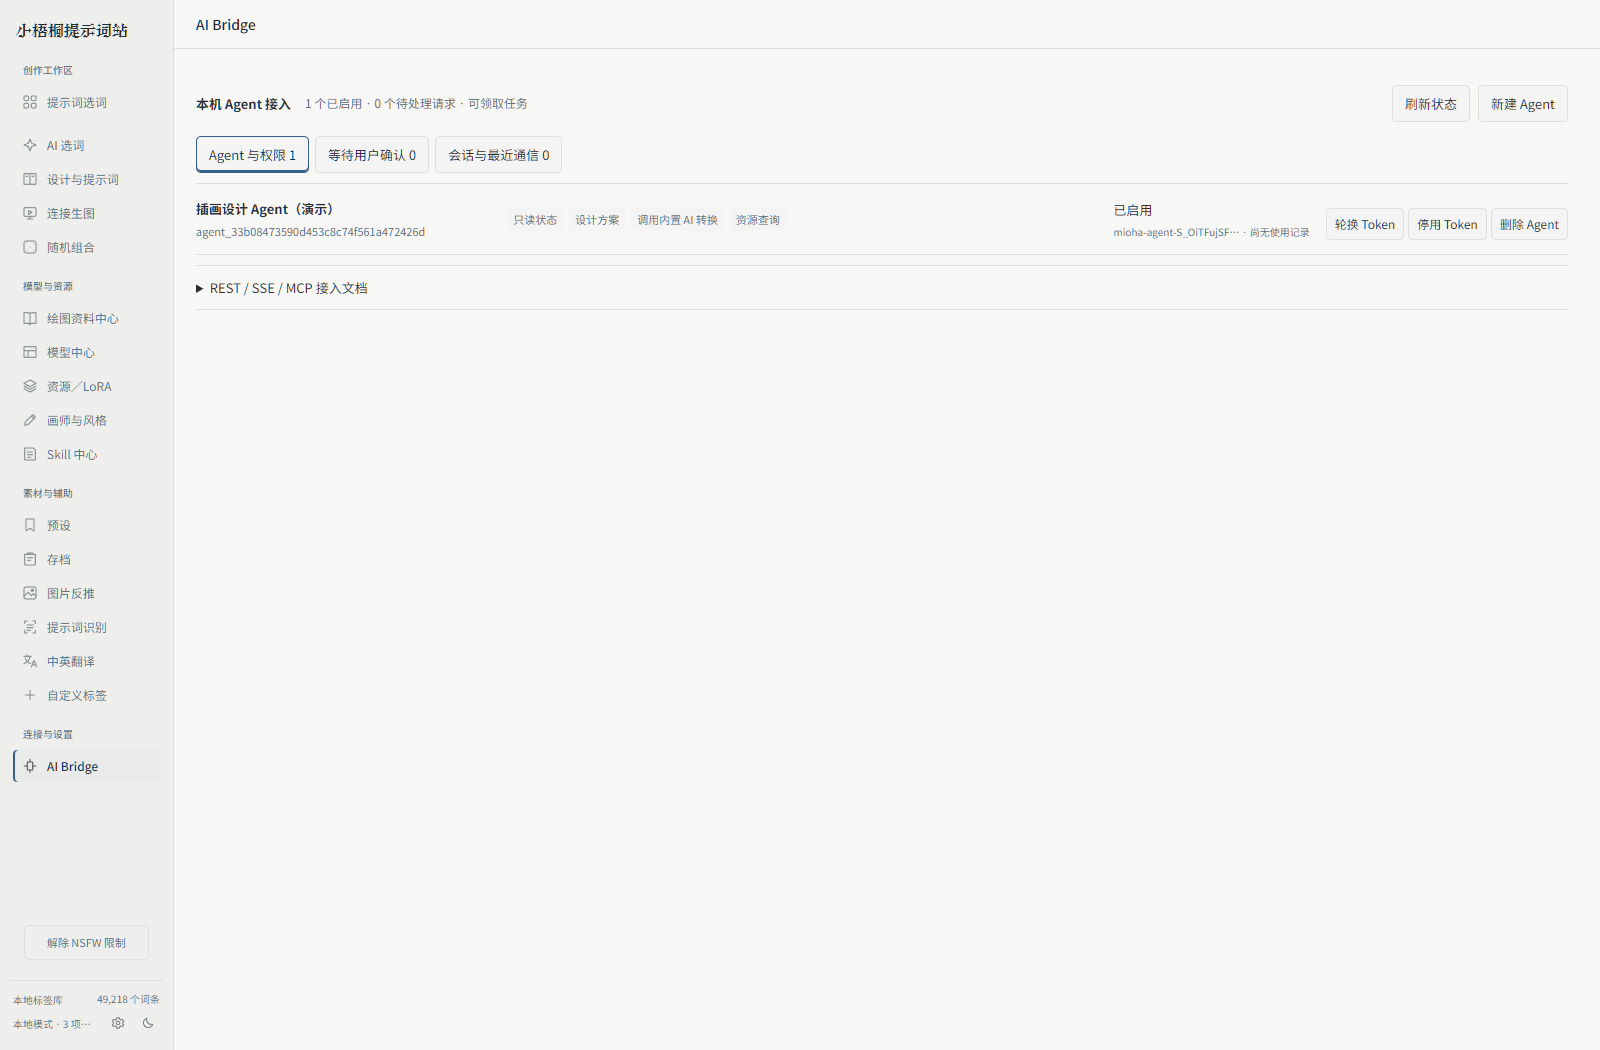
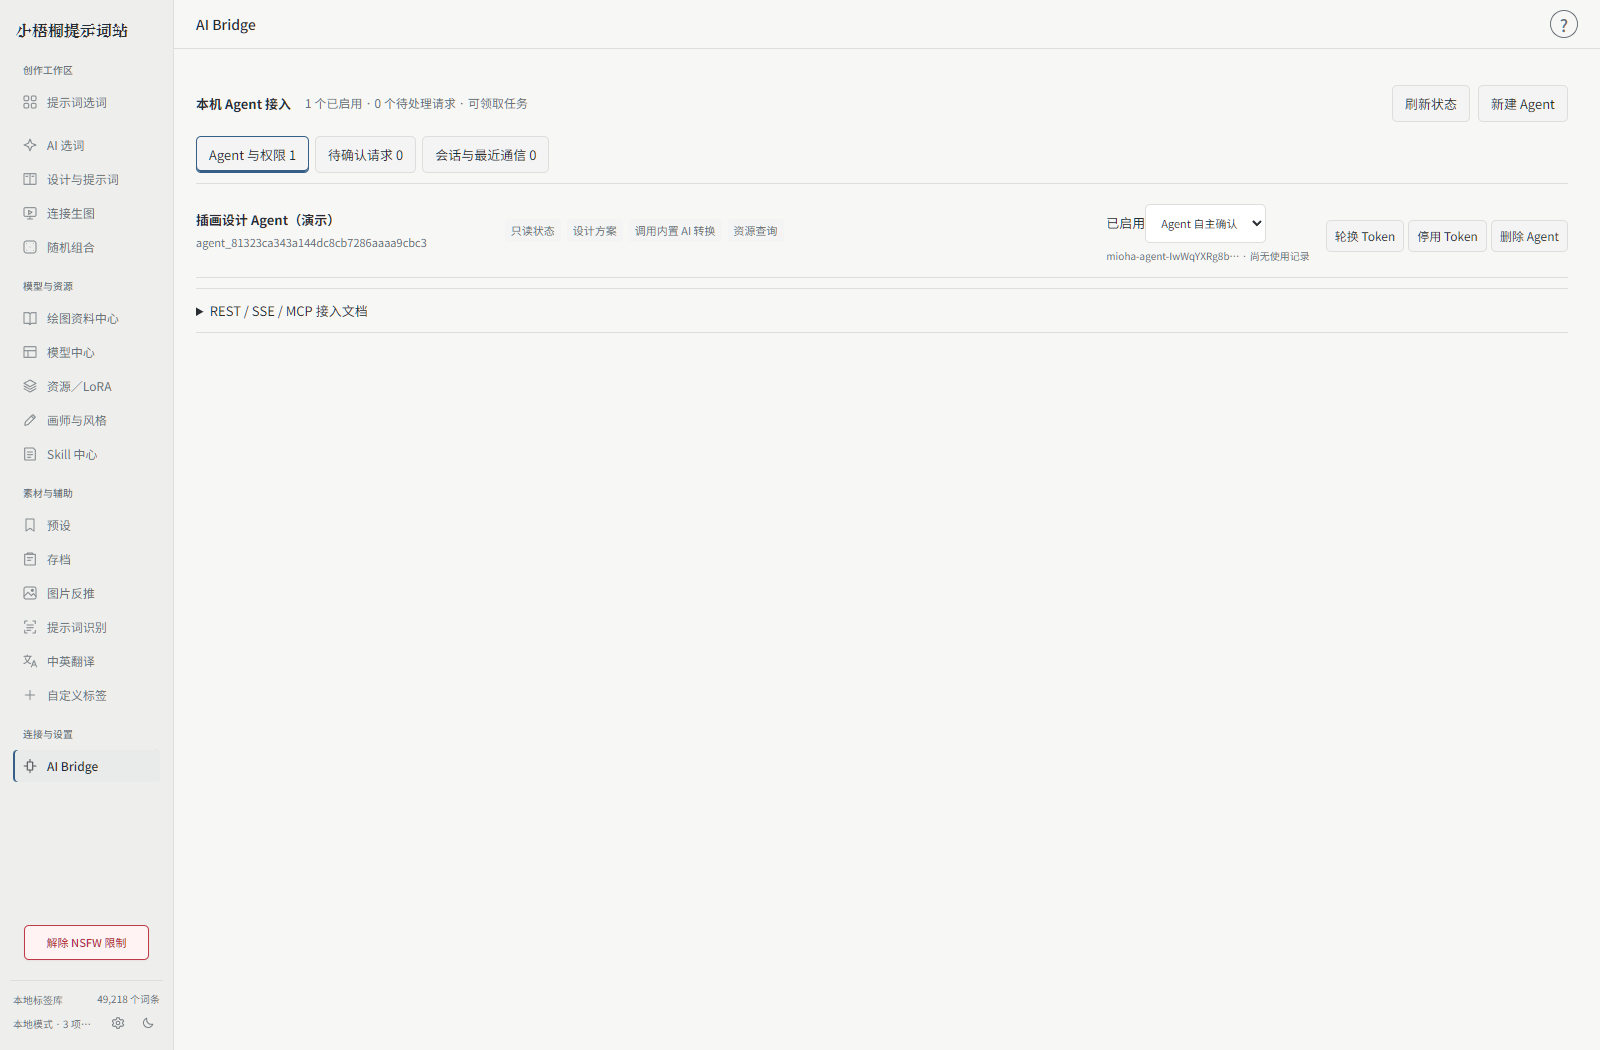
Document 0.2.3 Agent control, resource setup, workflows, progress and page help

diff --git a/docs/AGENT.md b/docs/AGENT.md
@@ -6,7 +6,7 @@
 
 外部 Agent 负责创意设计，软件内置 AI 负责按当前绘图模型和 Skill 转换表达。原始方案、版本和转换结果分开保存。外部 Agent 不需要维护所有绘图模型的专属语法，也不应另外建立重复推理服务。
 
-流程：查询能力 → 创建会话 → 提交原始设计 → 请求转换 → 查询／订阅任务 → 回答追问或提出反馈 → 获取结果 → 申请应用到编辑器 → 用户确认 → 按权限申请生图。
+流程：查询能力 → 创建会话 → 提交原始设计 → 请求转换 → 查询／订阅任务 → 回答追问或提出反馈 → 获取结果 → 配置实际资源 → 申请应用／生图 → 按权限自主确认或用户确认 → 获取执行回执。
 
 软件界面需保持运行，才能领取转换任务、执行编辑器应用和返回回执。HTTP 在线与转换可领取是两个状态。
 
@@ -55,10 +55,10 @@
 | convert | 请求内置 AI 转换与反馈 |
 | resources | 查询资源与画师信息 |
 | skills / models | 请求管理对应资源 |
-| generate | 请求生图 |
+| generate | 配置底模、LoRA、参数及工作流，申请生图 |
 | delete | 请求删除资源 |
 
-资源删除、覆盖提示词和最终生图按业务要求由用户确认。外部 Agent 没有任意文件、系统命令或数据库直连入口，也不能解除全局内容模式。
+资源删除、覆盖提示词和最终生图仍经过业务确认。默认允许 Agent 确认自己已授权的请求；用户可在身份列表切换为始终由用户确认。确认生图可能使用自己的付费服务，请按需授予 generate 权限。外部 Agent 没有任意文件、系统命令或数据库直连入口，也不能解除全局内容模式。
 
 ## 任务状态
 
@@ -67,7 +67,7 @@
 | queued | 已保存并排队 |
 | running | 已领取／执行；应用任务还可能在等编辑器回执 |
 | awaiting_input | 需要回答补充问题，可沿用原任务恢复 |
-| awaiting_confirmation | 等待用户审阅 |
+| awaiting_confirmation | 待确认；按权限调用 confirm_job，或等待用户审阅 |
 | success | 当前操作已完成；应用提示词以编辑器回执为准 |
 | error / cancelled | 失败或已取消，查看错误与已有结果后再决定是否重试 |
 
@@ -82,14 +82,57 @@
 转换任务优先于尚未执行的生图，但不会抢占已经运行的任务。会话上下文与任务按 Agent 隔离。
 
 
+## 生图资源、LoRA 与工作流控制
+
+先用 `list_resources` 读取稳定资源 ID，`list_workflows` 读取工作流 ID；可用 `get_generation_settings` 查询已应用配置。读取完整工作流需要 resources 权限，改变生图配置需要 generate 权限。
+
+调用 `configure_generation`，其 value 示例如下（替换为真实 ID）：
+
+```json
+{
+  "modelId": "model_anima",
+  "provider": "comfy",
+  "checkpointResourceId": "CHECKPOINT_RESOURCE_ID",
+  "workflowId": "WORKFLOW_ID",
+  "loras": [
+    {"resourceId": "LORA_A_ID", "weight": 0.85, "clipWeight": 0.6, "triggerEnabled": true},
+    {"resourceId": "LORA_B_ID", "weight": 1.1, "triggerEnabled": false}
+  ],
+  "parameters": {"width": 832, "height": 1216, "steps": 24},
+  "requestId": "UNIQUE_CONFIGURATION_REQUEST"
+}
+```
+
+返回配置任务，success 才表示界面已经应用。配置本身不生图，`loras: []` 清空列表。生成请求使用本 Agent 的配置快照，避免其他 Agent 或界面改变当前设置后串用资源。
+
+## 自主确认与页面帮助
+
+用 `confirm_job` 确认自己提交的待确认请求。不能跨 Agent、绕过 Token 权限或资源引用保护；被设为用户确认模式时自确认返回403。全局内容模式不对外部 Agent 开放。
+
+先读取 capabilities 中的 `selfConfirmationAllowed`、`confirmationMode` 和新能力。1.2 保留旧的 `*RequiresUserConfirmation` 兼容字段，新客户端不能再把它理解为只允许人工点击。
+
+`list_pages`／`get_page_help` 提供界面问号中同一份功能说明。分类管理也有独立资源分类工具，删除分类保留磁盘权重。更新软件后请重连外部 MCP 进程，旧进程不会自动加载新增工具。
+
+
 ## 工具与接口索引
 
-### MCP 工具（27项）
+### MCP 工具（38项）
 
 | 工具 | 用途 |
 | --- | --- |
 | `workspace_status` | 查询当前绘图模型、Skill、界面心跳与队列状态。converterReady 只在工作进程在线且可领取转换时为真；队列阻塞不等于任务失败。 |
 | `workspace_capabilities` | 查询应用版本、协议能力、权限、完整 REST 路由、数据库诊断和队列状态。先调用此工具了解当前软件支持范围。 |
+| `list_pages` | 列出全部软件页面及作用、操作步骤与输出，先了解软件再操作。 |
+| `get_page_help` | 读取指定页面的功能介绍。id 来自 list_pages，不依赖界面截图。 |
+| `get_generation_settings` | 读取当前或本 Agent 最近成功应用的生图配置，包含引擎、底模、LoRA 与工作流。 |
+| `configure_generation` | 配置生图但不执行绘图，需 generate 权限。value 支持 modelId、provider(neo/comfy/nai)、checkpointResourceId、workflowId、loras:[{resourceId,weight,clipWeight,triggerEnabled}]、parameters 与 requestId。先用 list_resources 查询实际 LoRA ID；返回任务 ID，success 才表示界面应用完成。loras:[] 清空所选 LoRA。 |
+| `list_workflows` | 列出 ComfyUI 文件夹中的工作流及可用状态；API 格式可直接读取，普通 UI 格式需连接 ComfyUI 获取节点定义。 |
+| `get_workflow` | 读取所选工作流及 sha256，需要 resources 权限。常规 UI 格式结合已连接 ComfyUI 的节点定义转换；旁路等不确定格式要求导出 API，避免改变工作流含义。 |
+| `confirm_job` | 确认自己提交的待确认任务，包括应用、生图及管理操作。遵守原权限、会话及资源引用限制；Agent 被设为用户确认模式时返回403。确认生图可能使用已配置的付费服务。 |
+| `list_resource_categories` | 读取用户自定义资源分类和计数；分类独立于引擎归属及模型适配。需要 resources 权限。 |
+| `save_resource_category` | 请求创建或重命名分类。value={name,可选id}。需要 resources 权限，随后用 confirm_job 确认自己的任务。 |
+| `assign_resource_categories` | 请求归类。value={resourceIds:[资源ID],categoryIds:[分类ID]}；空分类列表移至未分类。确认后生效，权重文件不移动。 |
+| `delete_resource_category` | 请求删除分类关系；确认后执行，资源记录与磁盘文件保留，需要 resources 与 delete 权限。 |
 | `list_models` | 分页列出可用绘图模型定义及稳定 ID，供选择设计方案转换目标；不会加载或下载权重。 |
 | `list_skills` | 分页查询模型专属 Skill 规则与元数据，modelId 可过滤；切换模型时应选择兼容规则。 |
 | `list_resources` | 分页查询 LoRA、真实触发词及模型兼容性。默认隐藏本机绝对路径；只有明确需要诊断时才传 paths=true。 |
@@ -101,19 +144,19 @@
 | `submit_design` | 提交与绘图模型无关的完整创意设计，支持自然语言或结构化对象。sessionId 必填；id 用于更新，requestId 用于安全重试。 |
 | `convert_design` | 请求软件现有内置 AI 将指定设计版本转换为目标模型提示词，不另建推理系统。返回任务，需用 get_job 查询；requestId 可幂等重试。 |
 | `resume_job` | 回答 awaiting_input 转换任务的追问，feedback 写完整补充内容。沿用相同任务 ID 和设计版本重新排队，requestId 用于幂等重试。 |
-| `get_job` | 查询本 Agent 单条任务、错误、追问、排队位置和转换结果 ID。生图或应用提示词处于 awaiting_confirmation 时须等待用户在软件确认。 |
+| `get_job` | 查询本 Agent 单条任务、错误、追问、排队位置、生成进度和转换结果 ID。awaiting_confirmation 时按 capabilities 的 selfConfirmationAllowed 判断：可自主确认则调用 confirm_job，否则等待用户确认。 |
 | `get_design` | 读取本 Agent 设计原文和版本记录；不将转换提示词当作原始设计。 |
 | `get_prompt` | 读取本 Agent 转换后的正负提示词、目标模型、Skill 快照和审阅信息。 |
-| `apply_prompt` | 请求把转换结果应用到编辑器，会覆盖现有正负提示词并可能切换模型。仅创建待确认任务，用户批准前不会修改编辑框。 |
-| `request_generation` | 提交本会话已转换 Prompt ID 的生图请求，返回待用户批准任务。不能绕过确认，也不能直接提交任意系统命令或文件路径。 |
+| `apply_prompt` | 请求把转换结果应用到编辑器，会覆盖现有正负提示词并可能切换模型。返回待确认任务，按权限调用 confirm_job 自主确认，或由用户确认；确认成功后执行并回执。 |
+| `request_generation` | 提交本会话已转换 Prompt ID 的生图请求，返回待确认任务。先用 configure_generation 选择实际底模、LoRA 和权重；按权限用 confirm_job 确认自己的任务，或等待用户确认。不能提交任意系统命令或文件路径。 |
 | `cancel_job` | 取消本 Agent 尚未运行、待确认或待补充的任务；正在执行的上游任务不保证能中断。 |
 | `generation_history` | 分页查看本 Agent 的生成结果与实际请求记录，可按会话恢复历史。 |
-| `save_model` | 请求创建或编辑模型定义，value 为现有业务模型对象。需要 models 权限并由用户审阅批准后执行。 |
-| `save_skill` | 请求创建或编辑模型 Skill，value 含 modelId、名称与规则内容。需要 skills 权限，用户确认后才保存。 |
-| `save_artist` | 请求创建或编辑画师资源，value 含 modelId 与画师串。需要 resources 权限，用户确认后保存。 |
-| `delete_model` | 提交模型删除请求，需 models/delete 权限；用户批准前不删除任何记录或文件。 |
+| `save_model` | 请求创建或编辑模型定义，value 为现有业务模型对象。需要 models 权限，确认后执行；允许自主确认的 Agent 可用 confirm_job 确认自己的任务。 |
+| `save_skill` | 请求创建或编辑模型 Skill，value 含 modelId、名称与规则内容。需要 skills 权限，确认后保存，可由已授权 Agent 自行确认。 |
+| `save_artist` | 请求创建或编辑画师资源，value 含 modelId 与画师串。需要 resources 权限，确认后保存。 |
+| `delete_model` | 提交模型删除请求，需 models/delete 权限；确认前不删除记录或文件；已授权 Agent 可确认自己的请求。 |
 | `delete_skill` | 提交 Skill 删除请求，需 skills/delete 权限；遵守引用和内置资源保护。 |
-| `delete_artist` | 提交画师删除请求，需 resources/delete 权限，仍须用户确认。 |
+| `delete_artist` | 提交画师删除请求，需 resources/delete 权限，仍须确认，可由已授权 Agent 自行确认。 |
 | `delete_resource` | 提交资源记录删除请求，需 resources/delete 权限，不提供任意文件删除入口。 |
 
 ### REST 路由
@@ -122,6 +165,16 @@
 | --- | --- | --- |
 | GET | `/capabilities` | 能力、版本、就绪与队列状态 |
 | GET | `/state` | 当前模型、Skill 与队列状态 |
+| GET | `/pages` | 页面列表与功能介绍 |
+| GET | `/pages/{id}/help` | 指定页面的可读取功能帮助 |
+| GET | `/generation-settings` | 查询生图配置与实际资源选择 |
+| POST | `/generation-settings` | 配置底模、LoRA／权重与工作流，需 generate 权限 |
+| GET | `/workflows` | 列出个人 ComfyUI 工作流 |
+| GET | `/workflows/{id}` | 读取工作流图与校验值 |
+| GET | `/resource-categories` | 自定义资源分类 |
+| POST | `/resource-categories` | 创建／重命名分类，需确认 |
+| POST | `/resource-categories/assign` | 按资源 ID 归类，需确认 |
+| DELETE | `/resource-categories/{id}` | 删除分类关系并保留资源，需确认 |
 | GET | `/models` | 绘图模型列表 |
 | GET | `/skills?modelId=` | 模型 Skill 列表 |
 | GET | `/resources?paths=0` | 资源；默认隐藏绝对路径 |
@@ -137,10 +190,11 @@
 | GET | `/jobs/{id}` | 单个任务 |
 | POST | `/jobs/{id}/resume` | 回答追问并沿用原任务继续转换 |
 | POST | `/jobs/{id}/cancel` | 取消待执行／待补充任务 |
+| POST | `/jobs/{id}/confirm` | 确认本 Agent 的已授权任务；用户确认模式下不允许自确认 |
 | GET | `/prompts/{id}` | 转换结果 |
-| POST | `/prompts/{id}/apply` | 请求覆盖编辑器，须用户确认 |
-| POST | `/generations` | 请求生图，须用户确认 |
+| POST | `/prompts/{id}/apply` | 请求覆盖编辑器，按权限自主确认或由用户确认 |
+| POST | `/generations` | 请求生图，按权限自主确认或由用户确认 |
 | GET | `/generation-history` | 本 Agent 生成历史 |
 | GET | `/events?sessionId=&after=&timeout=90` | SSE；支持 Last-Event-ID 与 retry，按游标续传 |
-| POST | `/models ／ /skills ／ /artists` | 管理操作请求，须用户确认 |
-| DELETE | `/models/{id} ／ /skills/{id} ／ /artists/{id} ／ /resources/{id}` | 删除请求，须用户确认 |
+| POST | `/models ／ /skills ／ /artists` | 管理操作请求，按权限自主确认或由用户确认 |
+| DELETE | `/models/{id} ／ /skills/{id} ／ /artists/{id} ／ /resources/{id}` | 删除请求，检查权限及引用后确认执行 |

diff --git a/docs/MODELS_AND_GENERATION.md b/docs/MODELS_AND_GENERATION.md
@@ -14,7 +14,7 @@
 
 ## 读取本地模型与 LoRA
 
-分别设置 NeoForge 和 ComfyUI 根目录，切换相应引擎后扫描。ComfyUI 会结合自身模型目录及支持的额外路径配置读取资源。
+首次进入资源页按路径向导操作：可自动查找常见位置、选择原生文件夹或直接输入。LoRA 文件夹可独立读取，不要求伪装成整个引擎根目录；NeoForge 与 ComfyUI 分别配置。保存中暂时锁定输入，避免后一次编辑被前一次响应覆盖。ComfyUI 会结合自身模型目录及支持的额外路径配置读取资源。
 
 卡片区分所在引擎与适用模型。共享目录中的同一权重可以同时出现在两个引擎下。归属不明确时保持待确认，可在详情中人工指定；不要仅凭文件名或「SDXL」字样就认定具体模型系列。
 
@@ -23,6 +23,12 @@
 选中资源或在当前范围使用「获取信息」。程序利用可用的本地元信息、版本信息或文件哈希查询 Civitai，读取介绍、版本、预览和 trainedWords。也支持通过 Civitai／civitai.red 链接导入资料。
 
 未提供的信息保持未知。资料导入不等于已下载模型权重；访问受限时检查自己的凭据、网络或代理。安全模式隐藏 NSFW 与未确认安全的预览，不能据此判断权重损坏。
+
+## 自定义分类与版本更新
+
+勾选资源后打开「分类管理」，创建或重命名自己的分类，再将资源归入勾选分类。分类独立于引擎、模型兼容性和上游标签；删除分类仅移除分类关系，保留资源与权重。
+
+「更新」检查当前范围或选中资源的来源版本，卡片提示可用的新版本。它不会自动下载或覆盖当前权重；联网信息与手工记录分别保留。
 
 ## LoRA 与触发词联动
 
@@ -38,6 +44,25 @@
 - **NovelAI**：配置自己的凭据，确认所选模型、参数、额度与服务限制后生成。费用由服务提供方规则决定。
 
 NeoForge 与 ComfyUI 分别保存采样参数。执行前检查当前提示词、底模、LoRA、尺寸、步数、CFG 和工作流；不要仅看卡片名称。
+
+## 从文件夹选择工作流
+
+点击连接生图页的「打开工作流文件夹」，把工作流 JSON 放进去，刷新后直接选择，无需每次粘贴整段 JSON。以软件打开的目录为准；通常是安装目录的 `workflows/ComfyUI`，不可写时使用个人数据目录。
+
+```text
+workflows/
+└── ComfyUI/
+    ├── 人物插画.json
+    └── 场景工作流.json
+```
+
+API 格式可直接载入。常规 UI 格式会读取已连接 ComfyUI 的节点定义，再转换为 API 图；缺少节点、旁路、PrimitiveNode、复杂组件插槽或无法确定的语义会明确提示导出 API 格式，不猜测转换。载入不会立即生成图片。
+
+![工作流文件选择](../assets/screenshots/workflow-picker.png)
+
+## 进度与耗时
+
+生图页常驻显示当前任务阶段、采样进度和耗时。NeoForge 使用本次任务的内部进度；ComfyUI 通过独立 clientId 接收节点与采样事件，显示的是当前采样节点的步数，不把多阶段工作流冒充为单一总进度。NovelAI 等接口未返回逐步百分比时显示等待与耗时，不伪造数字。
 
 ## 历史与异常
 

diff --git a/docs/FAQ.md b/docs/FAQ.md
@@ -65,3 +65,16 @@ WD14 是看图预测标签，不能替代文件中的原始生成元数据。软
 ### 怎么反馈问题？
 
 使用 [问题表单](https://github.com/xialing114514/mioha-prompt-station/issues/new/choose)，附版本、模块／引擎、复现步骤和脱敏截图。请先查阅本页及已有问题。
+
+
+### 已授权的 Agent 为什么还在等确认？
+
+新版支持 `confirm_job` 自主确认自己提交的请求。检查 Token 是否包含所需权限、是否选择了始终由用户确认模式，以及外部客户端是否重连到新版 MCP 工具。配置 LoRA 需要 generate 权限，查询资源需要 resources 权限。
+
+### 我的 LoRA 没有完整引擎目录，能单独读取吗？
+
+可以。资源页路径向导选择 LoRA 文件夹类型，直接选择或输入实际目录，保存并读取。不要把只含权重的目录误当成完整引擎根目录。
+
+### UI 格式工作流为什么仍要求导出 API？
+
+普通 UI 图可以结合运行中的 ComfyUI 节点定义转换；旁路、Primitive、复杂插槽和未知前端语义不能可靠推断时，会明确要求 API 格式，避免看似载入成功却改变实际绘图含义。

diff --git a/CHANGELOG.md b/CHANGELOG.md
@@ -1,5 +1,13 @@
 # 更新记录
 
+## 0.2.3 · 2026年11月8日
+
+外部 Agent 可按资源 ID 配置底模、多 LoRA、独立权重和工作流，并确认自己的已授权请求。新增首次资源路径向导、常见目录发现、原生文件夹选择、LoRA 自定义分类与版本检查。工作流改为文件夹选择，支持读取常规界面格式。各页面增加可读取的功能帮助；操作增加状态反馈，生图增加常驻采样进度与耗时。NSFW 入口改为醒目红色，AI 内容按钮提供明确按下状态。本轮保持现有 AI 提示词文本及模型规则。
+
+## 0.2.2 · 2026年11月8日 · 破甲内容优化
+
+优化了破甲内容。
+
 ## 0.2.2 · 2026年11月8日
 
 默认使用安全模式，隐藏 NSFW 标签与资料，对未确认分级的预览限制展示。侧栏首次提供解除入口，阅读警告并确认后解锁，此后在设置中切换。AI 内容开关改为按钮，须全局解锁后才能使用。联网查证与用量移到输入框下方，清空对话移到发送旁。补全 GitHub 使用文档与界面截图。

diff --git a/docs/QUICK_START.md b/docs/QUICK_START.md
@@ -28,6 +28,10 @@
 
 内置 AI 调用在线或自行配置的模型，不是离线附带的大语言模型。免费服务不可用时可稍后重试；程序不会自动改用你的自定义 Key。
 
+## 首次读取本地资源
+
+进入资源／LoRA 页面会直接显示路径向导。默认可选择自己的 LoRA 文件夹；若要读取整个引擎目录，可切换为根目录或使用自动查找。选择文件夹、按 Enter 或失焦后会保存并读取，等待处理中状态结束即可。错误路径会直接给出说明，不需要再寻找独立的保存入口。
+
 ## 接入绘图引擎
 
 NeoForge、ComfyUI 需要你先启动对应服务，并在软件中填写其本机 API 地址。常见默认地址分别为 `http://127.0.0.1:7860`、`http://127.0.0.1:8188`，实际以引擎的启动信息为准。

diff --git a/docs/SCREENSHOTS.md b/docs/SCREENSHOTS.md
@@ -57,3 +57,16 @@
 元数据优先、本地 WD14 与模型扫描入口。
 
 ![图片反推](../assets/screenshots/image-inspection.png)
+
+
+## 页面帮助
+
+右上角问号可打开可读取的功能说明，Agent 也可通过接口读取同一内容。
+
+![页面帮助](../assets/screenshots/page-help.png)
+
+## 工作流文件夹
+
+通过文件夹列表选择工作流。截图使用未执行的演示文件，路径为隐私已遮挡。
+
+![工作流选择](../assets/screenshots/workflow-picker.png)
